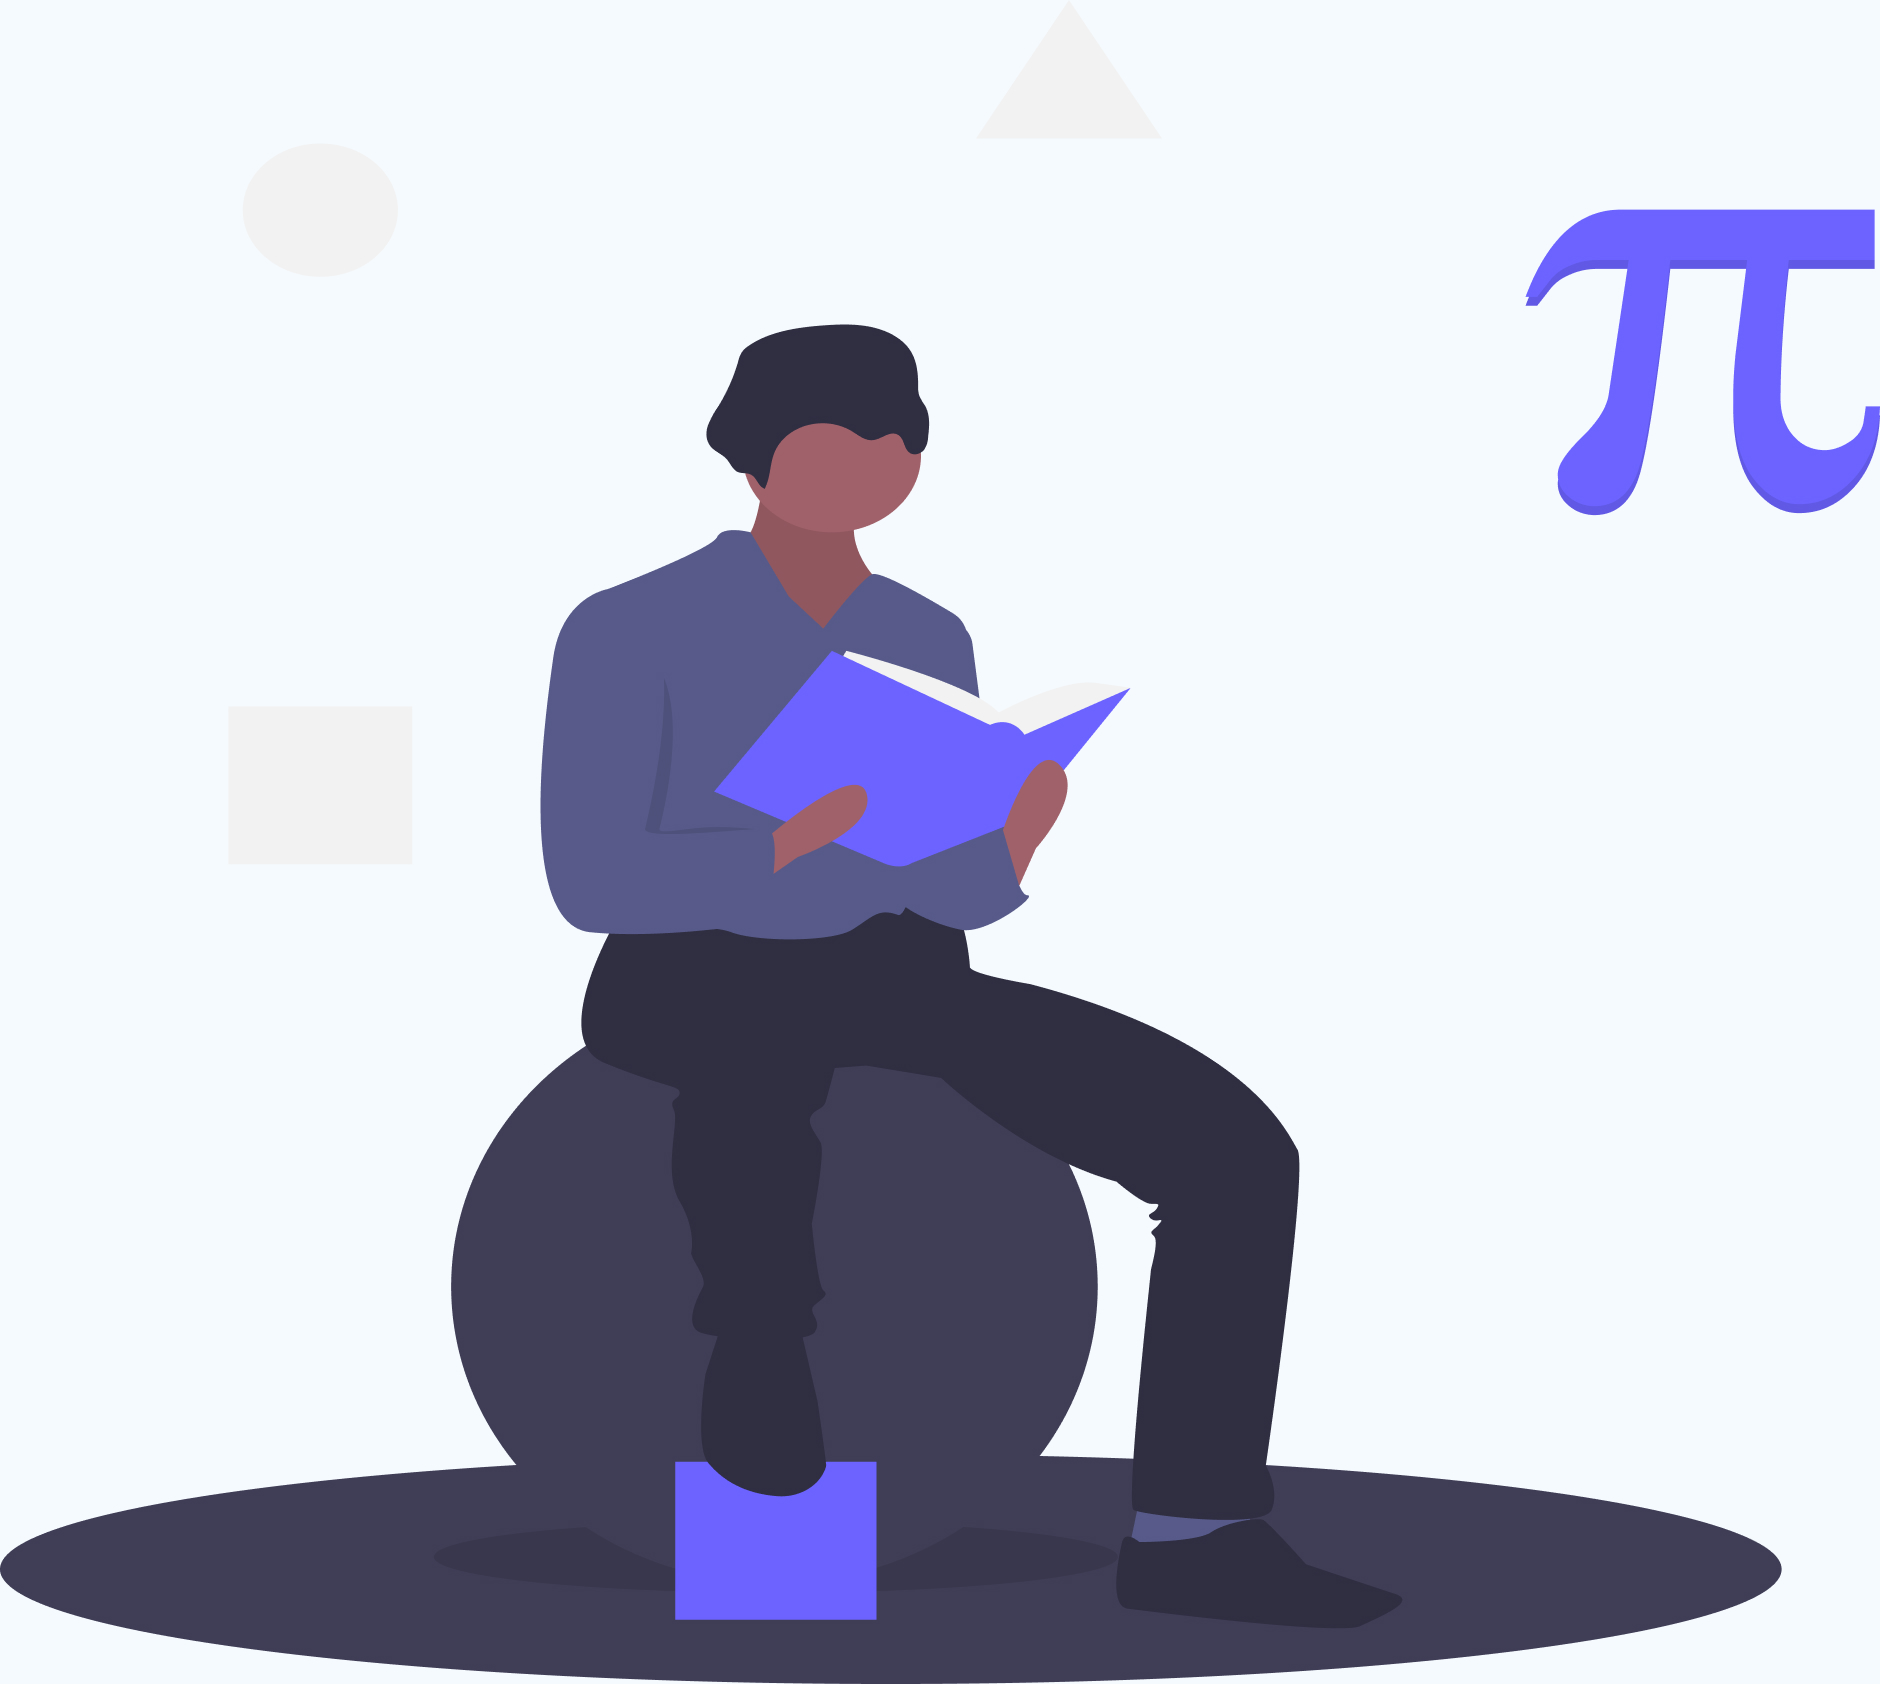
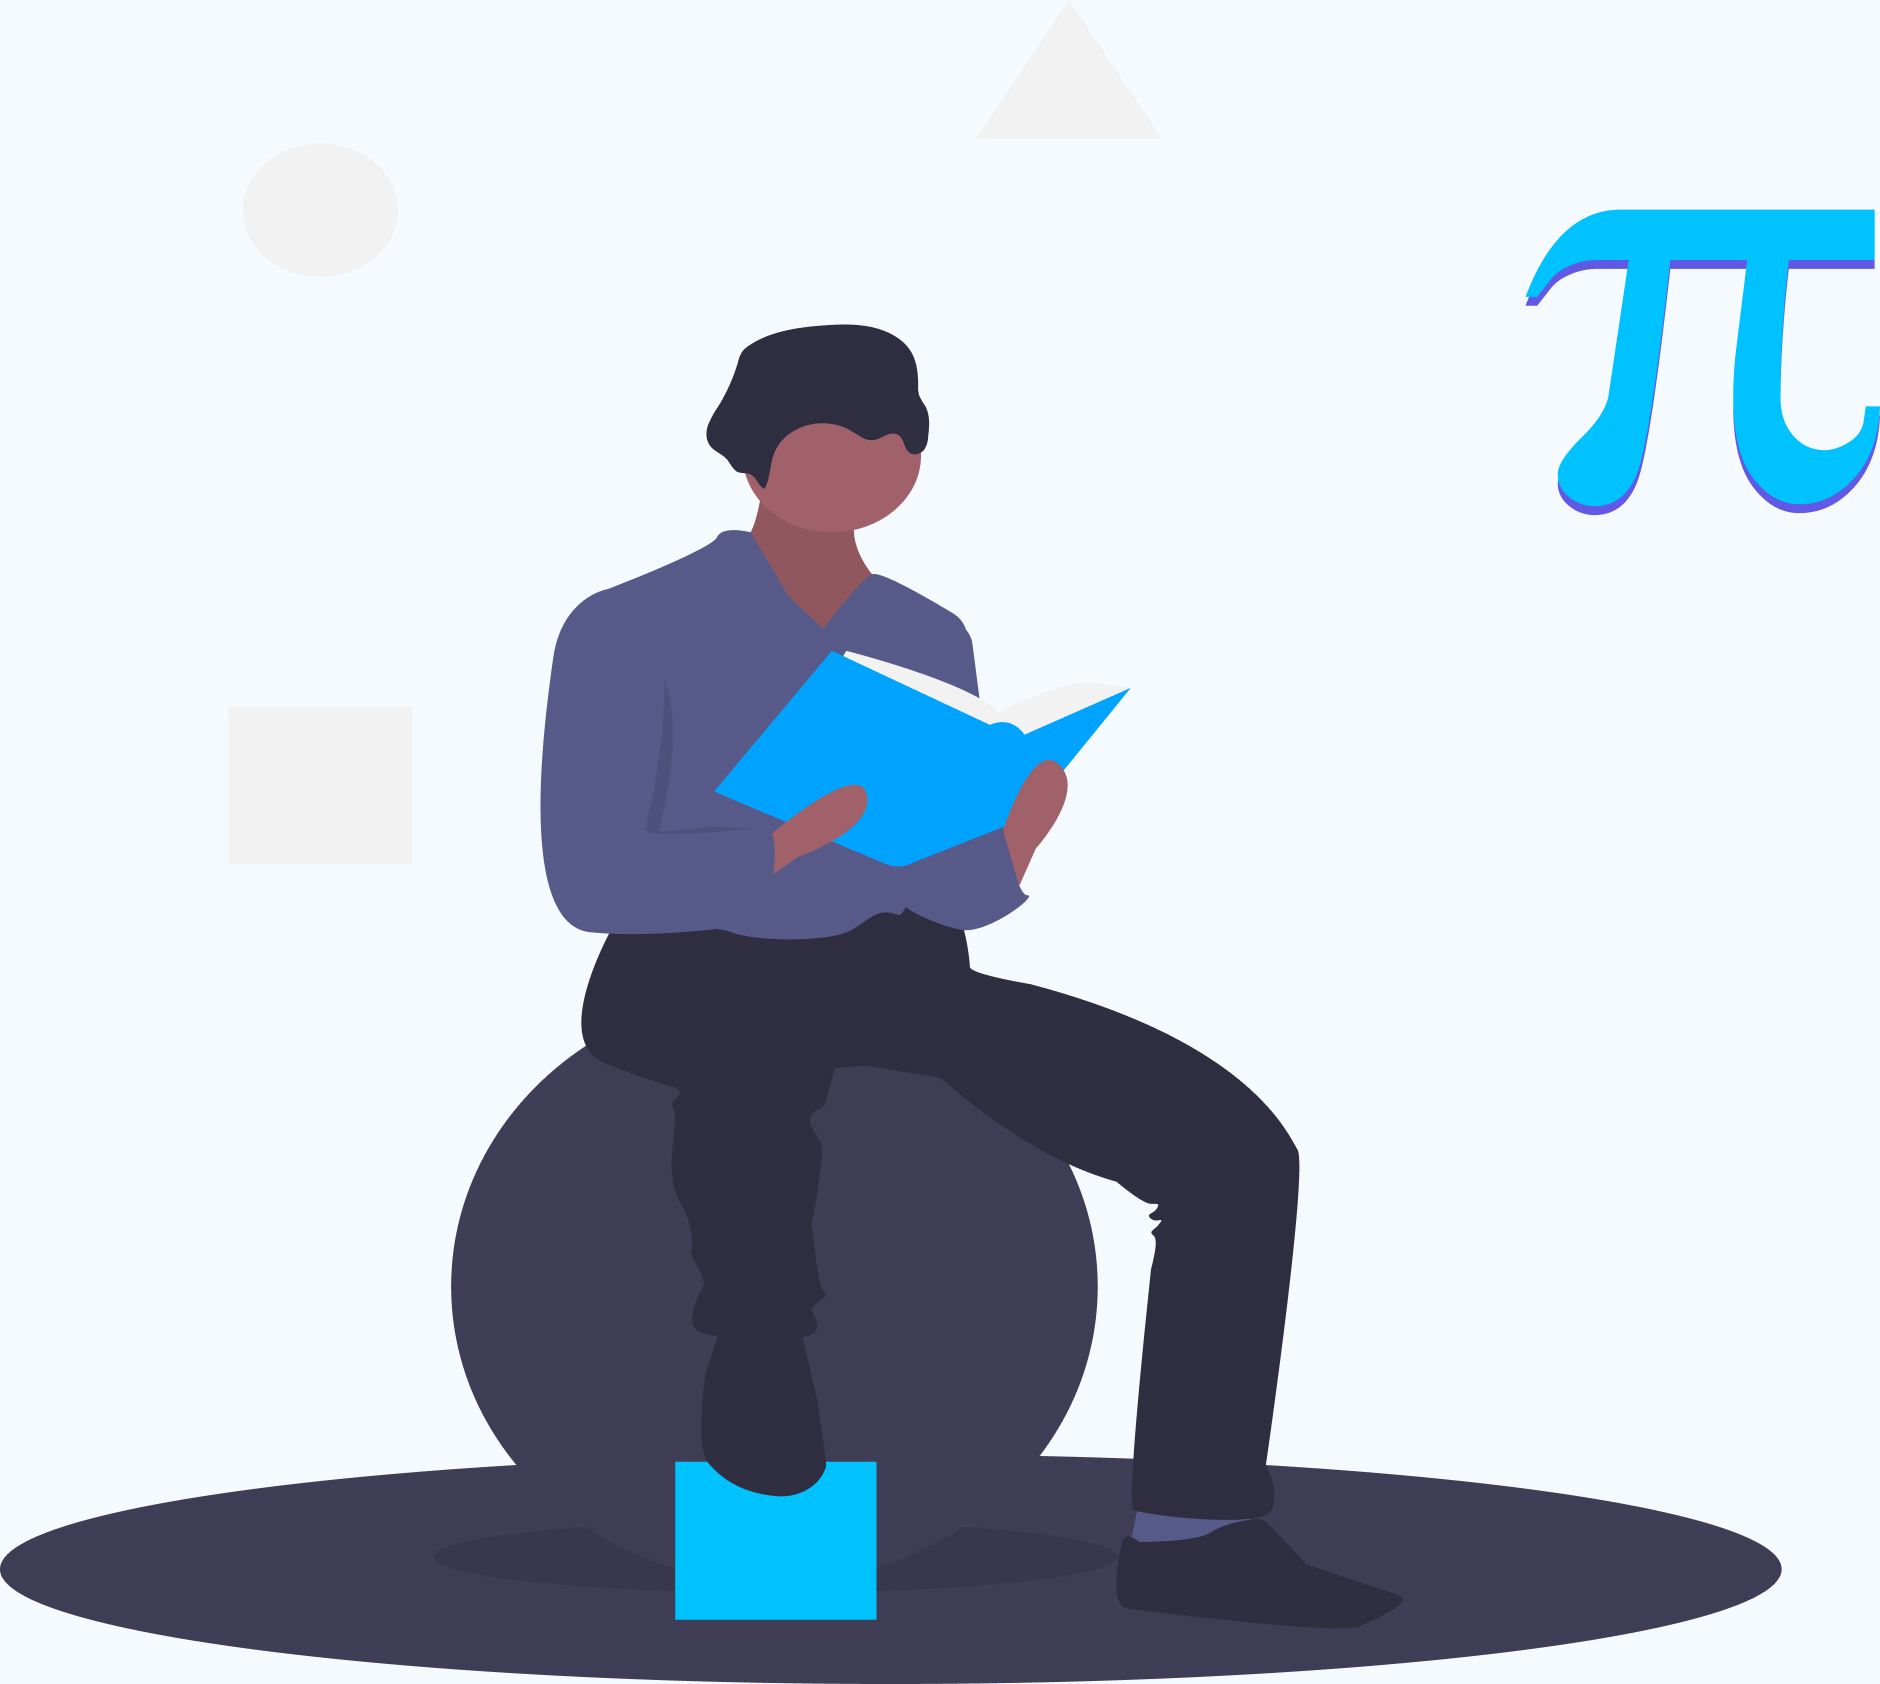
Add methodology section, testimonials, change about us section and figma design colors flavoring

Changed region(s): [[0.8021, 0.1235, 1.0, 0.3088], [0.3702, 0.3705, 0.617, 0.5249], [0.3394, 0.8646, 0.4936, 0.9881]]

diff --git a/index.html b/index.html
@@ -36,6 +36,9 @@
               <a class="nav-link" href="#about">About Us</a>
             </li>
             <li class="nav-item">
+              <a class="nav-link" href="#methodology">Methodology</a>
+            </li>
+            <li class="nav-item">
               <a href="#testimonials" class="nav-link">Testimonials</a>
             </li>
           </ul>
@@ -57,7 +60,7 @@
       <br />
       <div class="container">
         <h6 class="section-title text-center">Our Courses</h6>
-        <h6 class="section-subtitle text-center mb-5 pb-3">Lorem Ipsum dolor sit amet Lorem ipsum dolor sit amet</h6>
+        <h6 class="section-subtitle text-center mb-5 pb-3">What We Offer You</h6>
         <div class="row">
           <div class="col-md-4 mb-4">
             <div class="card mb-md-0">
@@ -94,7 +97,14 @@
         <div class="row justify-content-between">
           <div class="col-md-6 pr-md-5 mb-4 mb-md-0">
             <h6 class="section-title mb-2 mb-md-0">About Us</h6>
-            <p> There is an immense lack of proper Guidance and Coaching for the students for AMC and other Math Olympiads in the USA... <br /> Our group of IITians and NITians has collectively created a one-stop solution for all Maths and Science exams across the world. We prepare students for all boards (IB/IGCSE/CBSE) and various Olympiads (AMC/Mathcounts/Science Olympiads etc.) </p>
+            <p>
+            We provide personalized one-to-one tutoring for Maths, Chemistry, Physics, and Biology 
+            at various levels. We have more than 1200 students studying with us for JEE Mains and 
+            Advanced, Math Olympiads (SMC, AMC, BMO, AIME, IMC, RMO, etc.), International Boards 
+            (A/AS level, IBDP, IGCSE, etc.), and Pre foundation (Grade 4-10) courses. Many of our 
+            students are studying at top engineering colleges across India and Ivy League 
+            universities worldwide. 
+            </p>
             <img src="assets/media/about.jpg" alt="" class="w-100 mt-3">
           </div>
           <div class="col-md-6 pl-md-5">
@@ -109,16 +119,45 @@
               </div>
               <div class="col-12 mt-4">
                 <br class="hidden" />
-                <p> You name the exam, and we have tutors for you. More than 1200+ students learn with us worldwide, with more than 100+ teachers working full time with us. </p>
                 <p>
-                  <b>All the tutors teaching in the Olympiad section have themselves cleared various Olympiads during their time and have a minimum of 6 years of teaching experience.</b>
+                In group classes, we identified that many students could not channel their potential well; 
+                hence our purpose is to ensure that all students get a quality education in a cost-effective 
+                way.
+                </p>
+                <p>
+                  <b>
+                  We have a 120+ team of highly experienced and qualified teachers who are always ready to 
+                  push their limits to make students learning experience better.
+                  </b>
                   <br>
                 </p>
-                <p>Classes are one-to-one with regular assignments after each class and tests every Sunday. We empower bright minds with the knowledge to live their Dream Life…</p>
+                <p>
+                Our founder has himself cleared all the major Olympiads during his time and is a pass-out 
+                from IIT Bombay. We look forward to assisting you in your learning journey.
+                </p>
               </div>
             </div>
           </div>
         </div>
+      </div>
+    </section>
+
+    <section class="section has-img-bg" id="methodology">
+      <div class="container">
+        <h6 class="section-title text-center mb-0 methodology">Methodology</h6>
+        <h6 class="section-subtitle mb-5 text-center">How We Actually Work</h6>
+        <p>
+        Classes are entirely online, with all the teachers having iPad setups. Classes are kept 
+        very interactive, freeing the student to ask any doubts. At the end of each lesson, a pdf 
+        of class notes is given to students along with some dedicated assignments after each class. 
+        Students are supposed to send us a pdf of their work before the next class, and all the HWs 
+        are checked thoroughly by teachers. We also conduct weekly tests to ensure that students are 
+        on a steep learning curve with us. Tests and assignments are ways to understand students' 
+        understanding; we study student progress rigorously through these and try to identify the 
+        gaps in the learning. Subsequent lessons are planned in accordance with that. Students are 
+        always encouraged to think rather than spoon feeding in the sessions; this ensures the 
+        long-term success of students.
+        </p>
       </div>
     </section>
     <section class="section" id="testimonials">
@@ -132,11 +171,18 @@
                 <div class="media align-items-center mb-3">
                   <img class="mr-3" src="assets/media/avatar.jpg" alt="">
                   <div class="media-body">
-                    <h6 class="mt-1 mb-0">User 1</h6>
-                    <small class="text-muted mb-0">Business Analyst</small>
+                    <h6 class="mt-1 mb-0">Amisha</h6>
+                    <small class="text-muted mb-0">mother of Jash (qualified <b>AIME</b>)</small>
                   </div>
                 </div>
-                <p class="mb-0">Lorem ipsum dolor sit amet, consectetur adipisicing elit. Delectus enim modi, id dicta reiciendis itaque.</p>
+                <p class="mb-0 mt-4">
+                Dheeraj Agarwal and his team at Acadsort have in-depth ability and knowledge 
+                to tackle advanced problems in Maths, Physics, Bio, and Chem. All the teachers 
+                are highly qualified and rank holders in National and International Competitions. 
+                We could easily say that we are fortunate to have their expertise and experience 
+                for our child. As we are living abroad, they have been considerate about the 
+                timings. Best wishes for a very professional team. Highly recommended.
+                </p>
               </div>
             </div>
           </div>
@@ -146,11 +192,17 @@
                 <div class="media align-items-center mb-3">
                   <img class="mr-3" src="assets/media/avatar.jpg" alt="">
                   <div class="media-body">
-                    <h6 class="mt-1 mb-0">User 2</h6>
-                    <small class="text-muted mb-0">Insurance Agent</small>
+                    <h6 class="mt-1 mb-0">Samuel</h6>
+                    <small class="text-muted mb-0">I-year undergrad, University of Waterloo</small>
                   </div>
                 </div>
-                <p class="mb-0">Lorem ipsum dolor sit amet, consectetur adipisicing elit. Delectus enim modi, id dicta reiciendis itaque.</p>
+                <p class="mb-0 mt-4">
+                You are taught to think. Concepts won't be spoonfed to you rather you will be 
+                taught to build on your existing knowledge which is very crucial to develop the 
+                fundamentals of a subject. The classes were extremely helpful for my Linear 
+                Algebra and Mechanics courses at university. The classes are engaging and 
+                interactive. Thankfully I got the best grades in both courses.
+                </p>
               </div>
             </div>
           </div>
@@ -160,60 +212,24 @@
                 <div class="media align-items-center mb-3">
                   <img class="mr-3" src="assets/media/avatar.jpg" alt="">
                   <div class="media-body">
-                    <h6 class="mt-1 mb-0">User 3</h6>
-                    <small class="text-muted mb-0">Residential Appraiser</small>
+                    <h6 class="mt-1 mb-0">Ribhav</h6>
+                    <small class="text-muted mb-0">II-year undergrad, IIT Bombay</small>
                   </div>
                 </div>
-                <p class="mb-0">Lorem ipsum dolor sit amet, consectetur adipisicing elit. Delectus enim modi, id dicta reiciendis itaque.</p>
-              </div>
-            </div>
-          </div>
-          <div class="col-md-4 my-3 mb-3 my-md-3">
-            <div class="card">
-              <div class="card-body">
-                <div class="media align-items-center mb-3">
-                  <img class="mr-3" src="assets/media/avatar.jpg" alt="">
-                  <div class="media-body">
-                    <h6 class="mt-1 mb-0">User 1</h6>
-                    <small class="text-muted mb-0">Business Analyst</small>
-                  </div>
-                </div>
-                <p class="mb-0">Lorem ipsum dolor sit amet, consectetur adipisicing elit. Delectus enim modi, id dicta reiciendis itaque.</p>
-              </div>
-            </div>
-          </div>
-          <div class="col-md-4 my-3 mb-3 my-md-3">
-            <div class="card">
-              <div class="card-body">
-                <div class="media align-items-center mb-3">
-                  <img class="mr-3" src="assets/media/avatar.jpg" alt="">
-                  <div class="media-body">
-                    <h6 class="mt-1 mb-0">User 2</h6>
-                    <small class="text-muted mb-0">Insurance Agent</small>
-                  </div>
-                </div>
-                <p class="mb-0">Lorem ipsum dolor sit amet, consectetur adipisicing elit. Delectus enim modi, id dicta reiciendis itaque.</p>
-              </div>
-            </div>
-          </div>
-          <div class="col-md-4 my-3 mb-3 my-md-3">
-            <div class="card">
-              <div class="card-body">
-                <div class="media align-items-center mb-3">
-                  <img class="mr-3" src="assets/media/avatar.jpg" alt="">
-                  <div class="media-body">
-                    <h6 class="mt-1 mb-0">User 3</h6>
-                    <small class="text-muted mb-0">Residential Appraiser</small>
-                  </div>
-                </div>
-                <p class="mb-0">Lorem ipsum dolor sit amet, consectetur adipisicing elit. Delectus enim modi, id dicta reiciendis itaque.</p>
+                <p class="mb-0 mt-4">
+                Dheeraj Agarwal and his team at Acadsort have the ability and knowledge 
+                to teach advanced problems in Maths, Physics, Bio, and Chem. All the teachers
+                are highly qualified and experienced to teach any kind of student. They are 
+                flexible about the timing also.I highly recommend for competitive exams and 
+                IIT aspirants. Thanks Acadsort.
+                </p>
               </div>
             </div>
           </div>
         </div>
       </div>
     </section>
-    <section id="foot" class="section has-img-bg pb-0">
+    <section id="foot" class="section has-footer-img-bg pb-0">
       <div class="container">
         <div class="row align-items-center">
           <div class="col-md-5 my-3">

diff --git a/assets/style/index.css b/assets/style/index.css
@@ -317,19 +317,28 @@ p {
   color: #fff;
 }
 
-.section.has-img-bg * {
+.section.has-footer-img-bg {
+  position: relative;
+  background: url(../media/header.jpg) no-repeat center top fixed;
+  background-size: cover;
+  color: #fff;
+}
+
+.section.has-img-bg *,
+.section.has-footer-img-bg * {
   position: relative;
   z-index: 100;
 }
 
-.section.has-img-bg:after {
+.section.has-img-bg:after,
+.section.has-footer-img-bg::after {
   content: "";
   position: absolute;
   left: 0;
   top: 0;
   width: 100%;
   height: 100%;
-  background: rgba(0, 0, 0, 0.9);
+  background: rgba(0, 0, 0, 0.8);
   z-index: 1;
 }
 
@@ -432,4 +441,12 @@ p {
   color: #f5fafe;
   border-radius: 16px;
   font-size: 16px;
+}
+
+.methodology {
+  color: #00c2ff;
+}
+
+#methodology p {
+  opacity: 1;
 }
